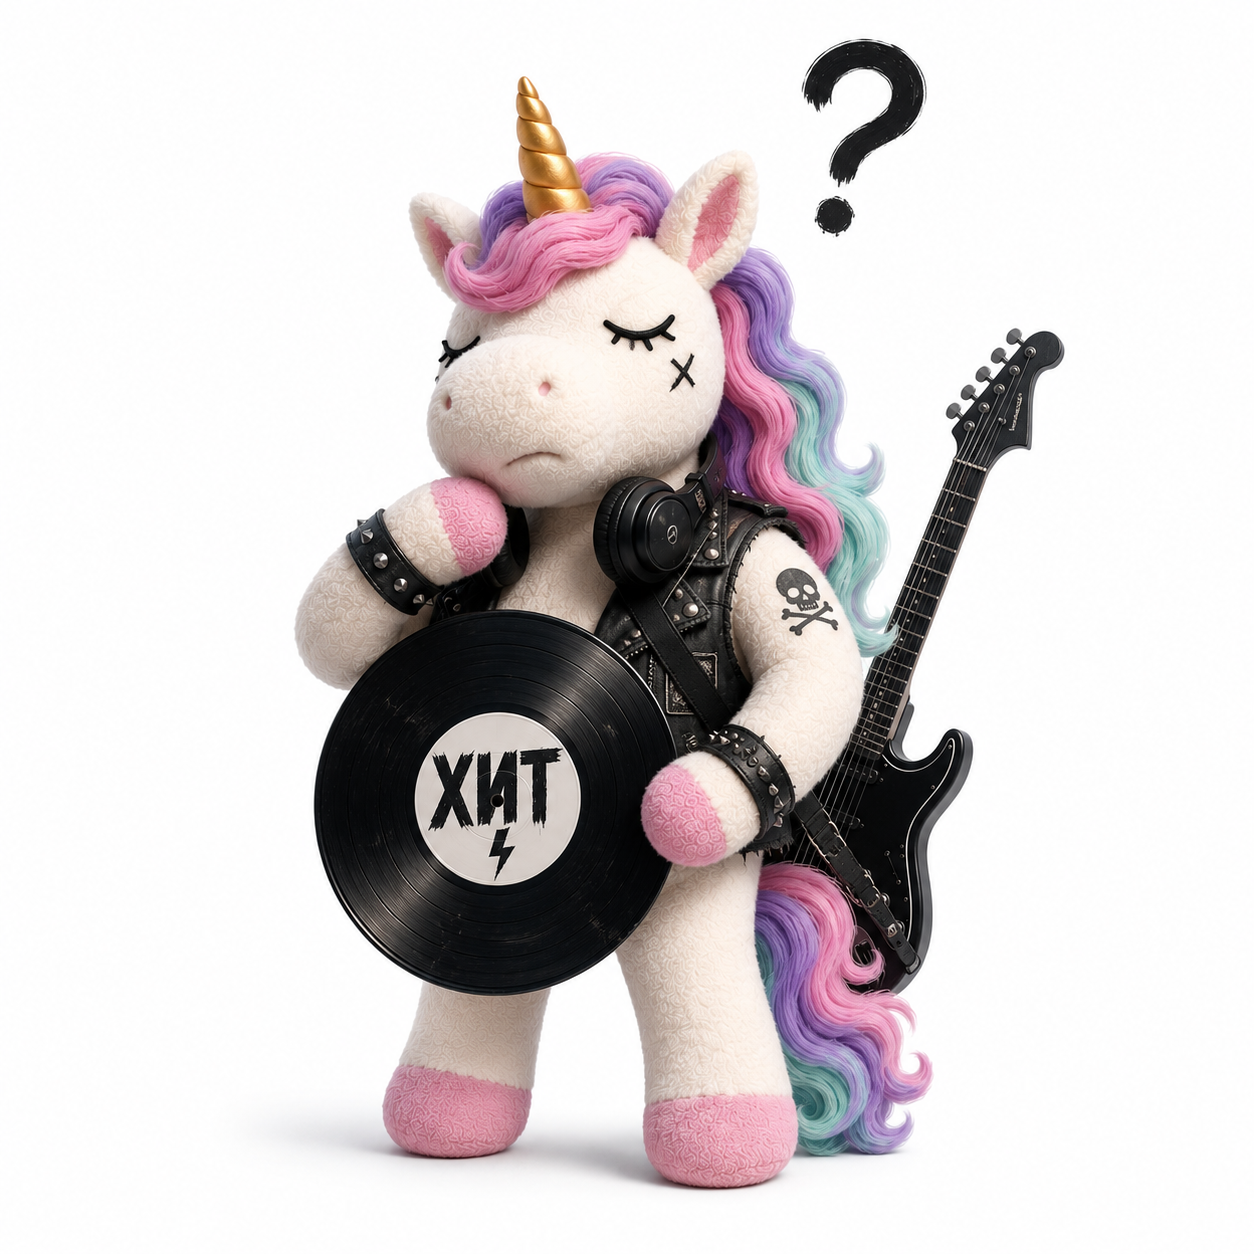
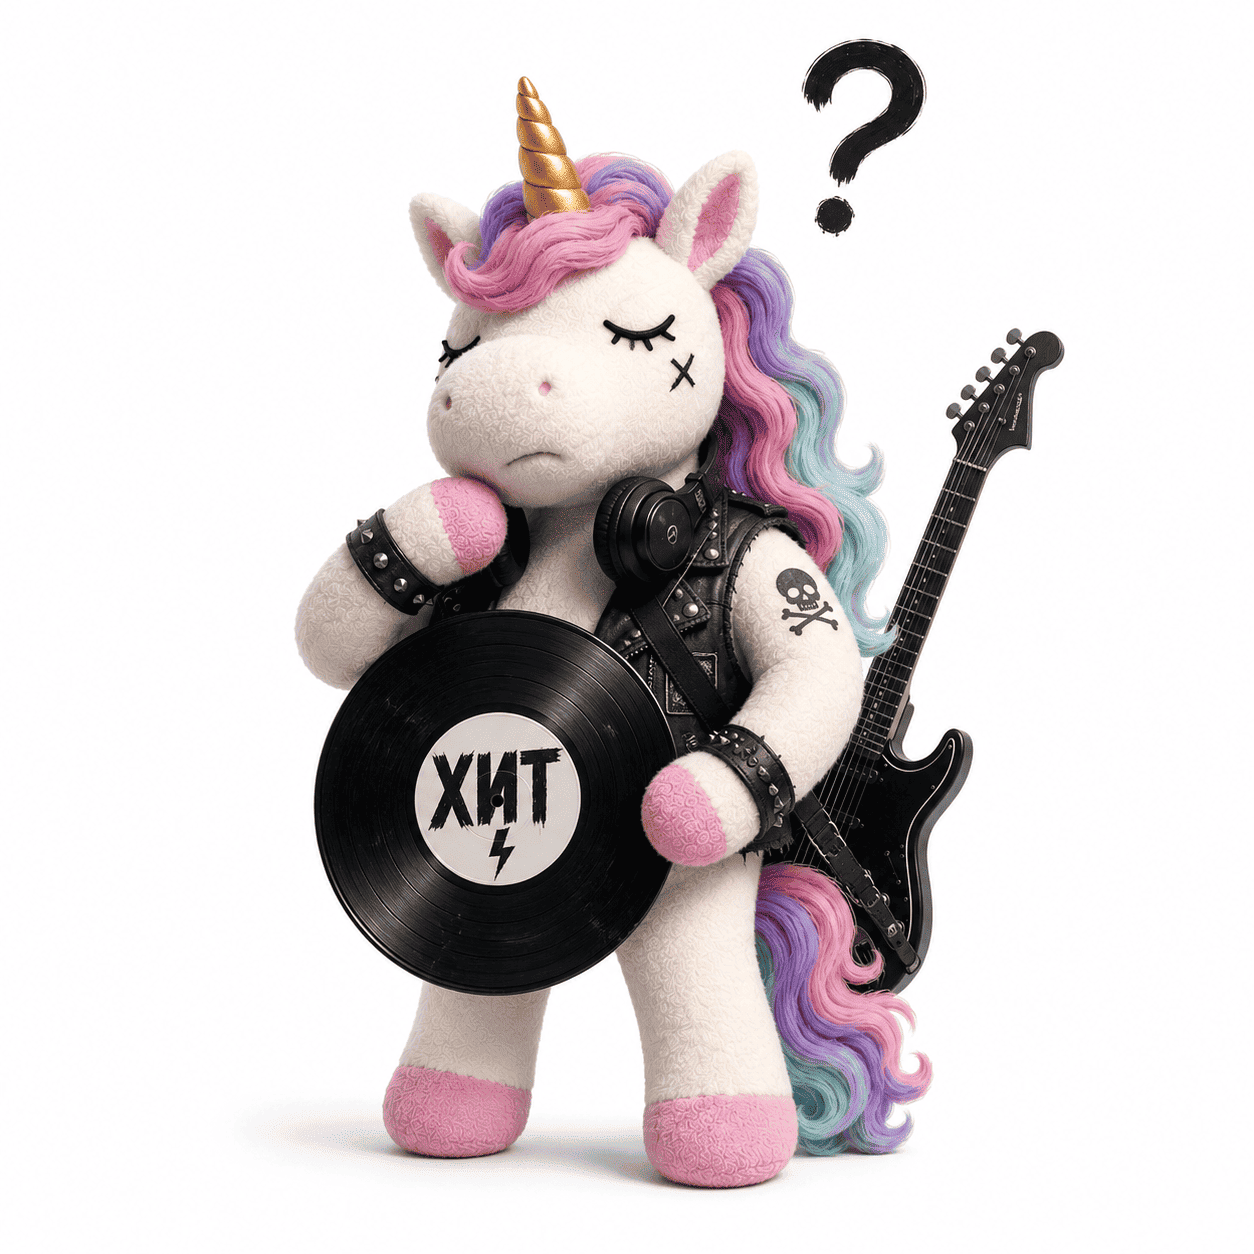
[UNICORN-3]: Fix assets

diff --git a/frontend/app/composables/pages/useVocal.ts b/frontend/app/composables/pages/useVocal.ts
@@ -35,7 +35,8 @@ export const useVocal = async (key = 'vocal-content') => {
     contentName: 'vocal',
     fetchContent: () => api.fetchVocal(),
     selectServices: content => (content as VocalCms | null)?.Services,
-    faqMode: 'array',
+    // Strapi now returns FAQ as object on this endpoint; auto keeps compatibility with both formats.
+    faqMode: 'auto',
     teachersFallback: {
       title: 'Тренеры по вокалу',
       subtitle: 'Кто ведёт занятия по вокалу — познакомьтесь с нашими тренерами',